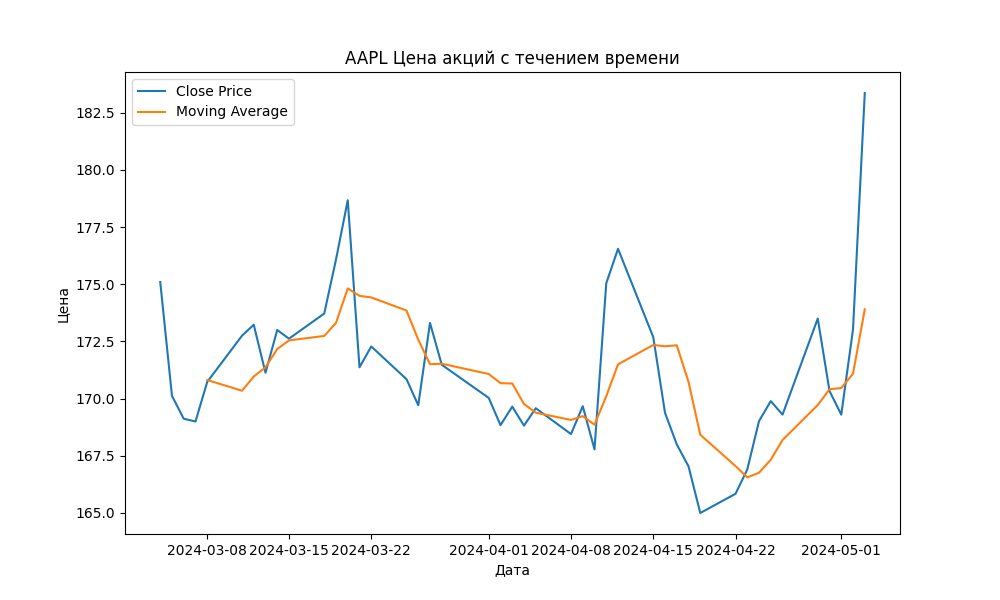
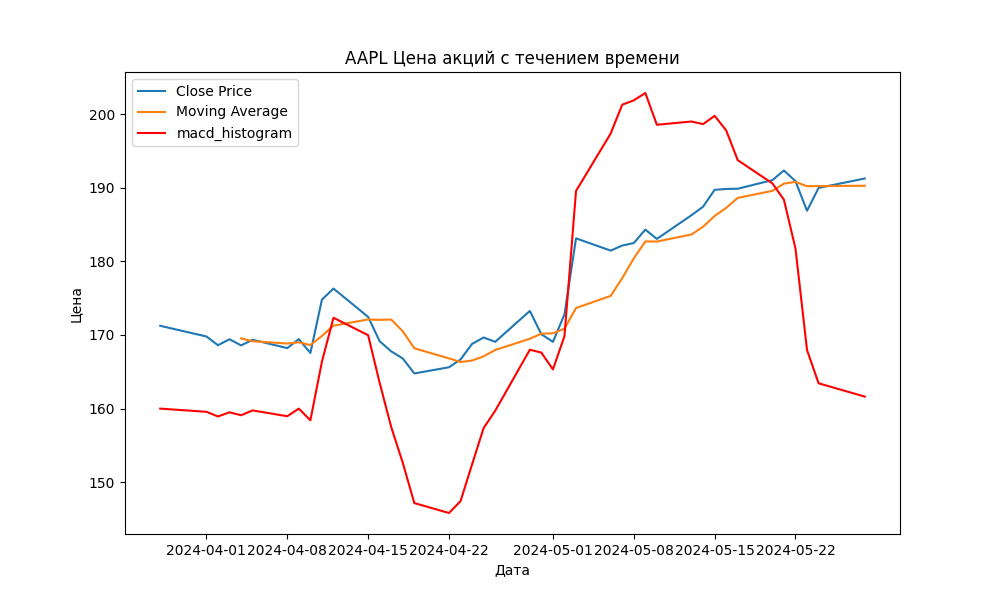
28.05.24

diff --git a/data_plotting.py b/data_plotting.py
@@ -2,7 +2,7 @@ import matplotlib.pyplot as plt
 import pandas as pd
 
 
-def create_and_save_plot(data, ticker, period, filename=None):
+def create_and_save_plot(data, ticker, period, ind_macd, filename=None):
     '''Создаёт график, отображающий цены закрытия и скользящие средние.
      Предоставляет возможность сохранения графика в файл. Параметр filename опционален;
       если он не указан, имя файла генерируется автоматически.'''
@@ -13,6 +13,9 @@ def create_and_save_plot(data, ticker, period, filename=None):
             dates = data.index.to_numpy()
             plt.plot(dates, data['Close'].values, label='Close Price')
             plt.plot(dates, data['Moving_Average'].values, label='Moving Average')
+            plt.plot(dates, ind_macd, label='macd_histogram', color='red')
+
+
         else:
             print("Информация о дате отсутствует или не имеет распознаваемого формата.")
             return
@@ -21,6 +24,7 @@ def create_and_save_plot(data, ticker, period, filename=None):
             data['Date'] = pd.to_datetime(data['Date'])
         plt.plot(data['Date'], data['Close'], label='Close Price')
         plt.plot(data['Date'], data['Moving_Average'], label='Moving Average')
+        plt.plot(data['Date'], ind_macd, label='macd_histogram', color='red')
 
     plt.title(f"{ticker} Цена акций с течением времени")
     plt.xlabel("Дата")

diff --git a/data_download.py b/data_download.py
@@ -2,6 +2,7 @@ import yfinance as yf
 import pandas as pd
 
 
+
 def fetch_stock_data(ticker, period='1mo'):
     '''Получает исторические данные об акциях для указанного тикера и временного периода.
      Возвращает DataFrame с данными.'''
@@ -31,6 +32,16 @@ def export_data_to_csv(data, filename):
     '''экспортировать данные в CSV формате'''
     df = pd.DataFrame(data)
     df.to_csv(filename, encoding='utf-8', index=False)
+
+
+def indicator_macd(data):
+    '''расчёт индикатора MACD'''
+    ema12 = data['Close'].ewm(span=12).mean()
+    ema26 = data['Close'].ewm(span=26).mean()
+    macd = ema12 - ema26
+    macd_signal = macd.ewm(span=9).mean()
+    macd_histogram = macd - macd_signal
+    return macd_histogram * 30 + 160
 
 
 def add_moving_average(data, window_size=5):

diff --git a/main.py b/main.py
@@ -22,8 +22,11 @@ def main():
     # Добавьте скользящее среднее значение к данным
     stock_data = dd.add_moving_average(stock_data)
 
+    # индикатор MACD
+    ind_macd = dd.indicator_macd(stock_data)
+
     # Построим график данных
-    dplt.create_and_save_plot(stock_data, ticker, period)
+    dplt.create_and_save_plot(stock_data, ticker, period, ind_macd)
 
     # выводит среднюю цену закрытия акций за заданный период.
     print(dd.calculate_and_display_average_price(stock_data))
@@ -33,6 +36,8 @@ def main():
 
     # экспортировать данные в CSV формате
     dd.export_data_to_csv(stock_data, 'information_about_promotions.csv')
+
+
 
 
 if __name__ == "__main__":
